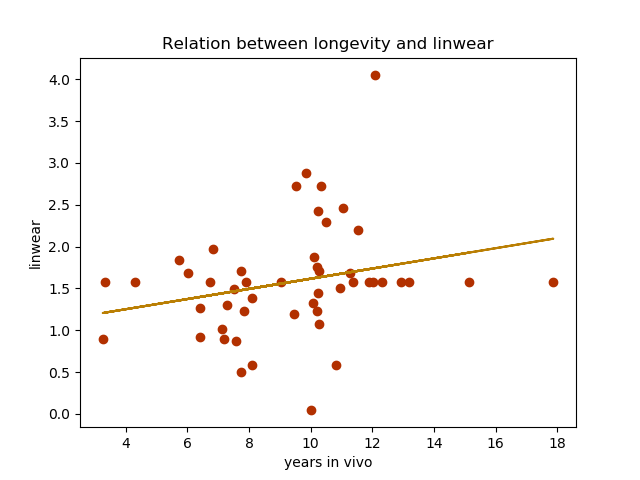
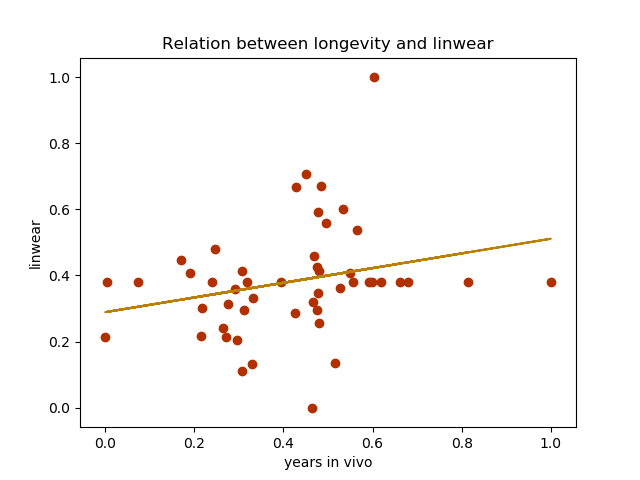
added minmaxscaler for data transformation preprocessing. user part of system now presents the prediction with the highest R2 score instead of the average of all predictions. R2 score displayed is highest of all runs instead of average of total runs.

diff --git a/root/webinterface/modules/ml.py b/root/webinterface/modules/ml.py
@@ -1,7 +1,9 @@
+import pandas as pd
 from sklearn.tree import DecisionTreeRegressor
 from sklearn.linear_model import LinearRegression
 from sklearn.neural_network.multilayer_perceptron import MLPRegressor
-from sklearn.model_selection import train_test_split, GridSearchCV, LeaveOneOut
+from sklearn.model_selection import train_test_split, GridSearchCV, LeaveOneOut, cross_val_score
+from sklearn.preprocessing import MinMaxScaler
 from sklearn import metrics
 from modules import datahandler, graph_factory
 import numpy as np
@@ -9,6 +11,7 @@ import numpy as np
 
 dth = datahandler
 graph = graph_factory
+scaler = MinMaxScaler()
 
 
 class Data:
@@ -30,9 +33,9 @@ def split_dataset_into_train_test(dataframe, column, recalibrate=False):
     # Create a training/testing split
     if recalibrate:
         print('recalibrate is turned on')
-        x_train, x_test, y_train, y_test = train_test_split(x, y, test_size=0.35, random_state=33)
+        x_train, x_test, y_train, y_test = train_test_split(x, y, test_size=0.20, random_state=33)
     else:
-        x_train, x_test, y_train, y_test = train_test_split(x, y, test_size=0.35)
+        x_train, x_test, y_train, y_test = train_test_split(x, y, test_size=0.20)
 
     """
     # TODO might not be necessary - just in case there's too little or too much of control cases in the
@@ -157,9 +160,15 @@ def target_predict_mlp(target, recalibrate=False, count=0):
 
 
 def target_predict_linear(target, recalibrate=False, count=0):
+    vivo_scaler = MinMaxScaler()
+    df = dth.Data.dataframe
+    df[list(df)] = scaler.fit_transform(df[list(df)])
+    vivo_scaler.fit(target['years in vivo'].values.reshape(-1, 1))
+    target[list(target)] = scaler.transform(target[list(target)])
+
+    x_train, x_test, y_train, y_test = split_dataset_into_train_test(df, 'years in vivo', recalibrate=False)
     target_pred = target.drop('years in vivo', axis=1)
-    x_train, x_test, y_train, y_test = split_dataset_into_train_test(dth.prune_features(dth.Data.dataframe),
-                                                                     'years in vivo', recalibrate=False)
+
     if recalibrate:
         parameters = {
             'fit_intercept': (True, False),
@@ -177,7 +186,8 @@ def target_predict_linear(target, recalibrate=False, count=0):
         regressor.fit(x_train, y_train)
 
     r2_prediction = regressor.predict(x_test)
-    prediction = regressor.predict(target_pred)
+    prediction = np.array(regressor.predict(target_pred))
+    prediction = vivo_scaler.inverse_transform(prediction.reshape(1, -1))
 
     if recalibrate:
         dth.TestData.result_dt[str(count)] = {"R2": str(regressor.best_score_), "prediction": str(prediction[0]),
@@ -238,8 +248,7 @@ def multiple_regression_analysis(control_group=False):
 
         regressor = LinearRegression()
         regressor.fit(x_train, y_train)
-        print(regressor.coef_)
-        prediction = regressor.predict(x_test)
+        prediction = regressor.predict(X=x_test)
 
         r2yt.append(y_test)
         r2yp.append(prediction)

diff --git a/root/webinterface/run.py b/root/webinterface/run.py
@@ -156,7 +156,7 @@ def dt_target_prediction():
 
     # FOR ACTUAL USE
     if not Data.recalibrate:
-        for x in range(2000):
+        for x in range(1000):
             # prediction_result, r2 = ml.target_predict_decision_tree(target, Data.recalibrate)
             prediction_result, r2 = ml.target_predict_linear(target, Data.recalibrate)
             r2 = float(r2)
@@ -164,6 +164,7 @@ def dt_target_prediction():
             if Data.stop_process:
                 print('Process stopped, system made ', len(prediction_results_list), ' predictions')
                 break
+            r2_list.append(r2)
 
         graph_factory.clean_up_graph_folder()
         graphs = graph_factory.histogram_of_results(prediction_results_list)
@@ -172,16 +173,20 @@ def dt_target_prediction():
             graphs.append(every)
 
         prediction = pd.DataFrame(
-            {'Actual': target['years in vivo'], 'Predicted': statistics.mean(prediction_results_list)})
-        r2_list.append(r2)
+            {'Actual': target['years in vivo'], 'Predicted': prediction_results_list[r2_list.index(max(r2_list))]})
+
         stats = get_processed_list_of_predictions(prediction_results_list)
-        result = format_results_to_html(prediction, statistics.mean(r2_list), graphs, stats)
+        result = format_results_to_html(prediction, max(r2_list), graphs, stats)
+
 
     # FOR TESTING
     else:
         prediction_result, r2 = ml.target_predict_decision_tree(target, Data.recalibrate)
         prediction = pd.DataFrame({'Actual': target['years in vivo'], 'Predicted': prediction_result})
         result = format_results_to_html(prediction, r2)
+
+    print(max(r2_list))
+
     return result
 
 
@@ -247,10 +252,12 @@ def multiple_linear_regression(control_group=False):
     actual = [round(val, 2) for val in actual]
     prediction = [round(val, 2) for val in prediction]
 
+    """
     count = 1
     for x in actual:
         print (count, '&', x, '&', prediction[count-1], '\\\\ \\hline')
         count += 1
+    """
 
     result = format_results_to_html(pd.DataFrame({'Actual': list(actual), 'Predicted': list(prediction)}), stats)
     return result

diff --git a/root/webinterface/modules/datahandler.py b/root/webinterface/modules/datahandler.py
@@ -21,7 +21,8 @@ class Features:
         'id', 'case', 'cuploose', 'stemloose', 'years in vivo', 'cr', 'co', 'zr', 'ni', 'mb', 'linwear', 'linwearrate', 
         'volwear', 'volwearrate', 'inc', 'ant', 'cupx', 'cupy', 'male', 'female'
     """
-    initially_deactivated = ['case', 'cuploose', 'stemloose', 'zr', 'ni', 'mb', 'cupx', 'cupy']
+    initially_deactivated = ['case', 'cuploose', 'stemloose', 'zr', 'ni', 'mb',
+        'volwear', 'volwearrate', 'cupx', 'cupy']
     original_dataset_features = []
 
 
